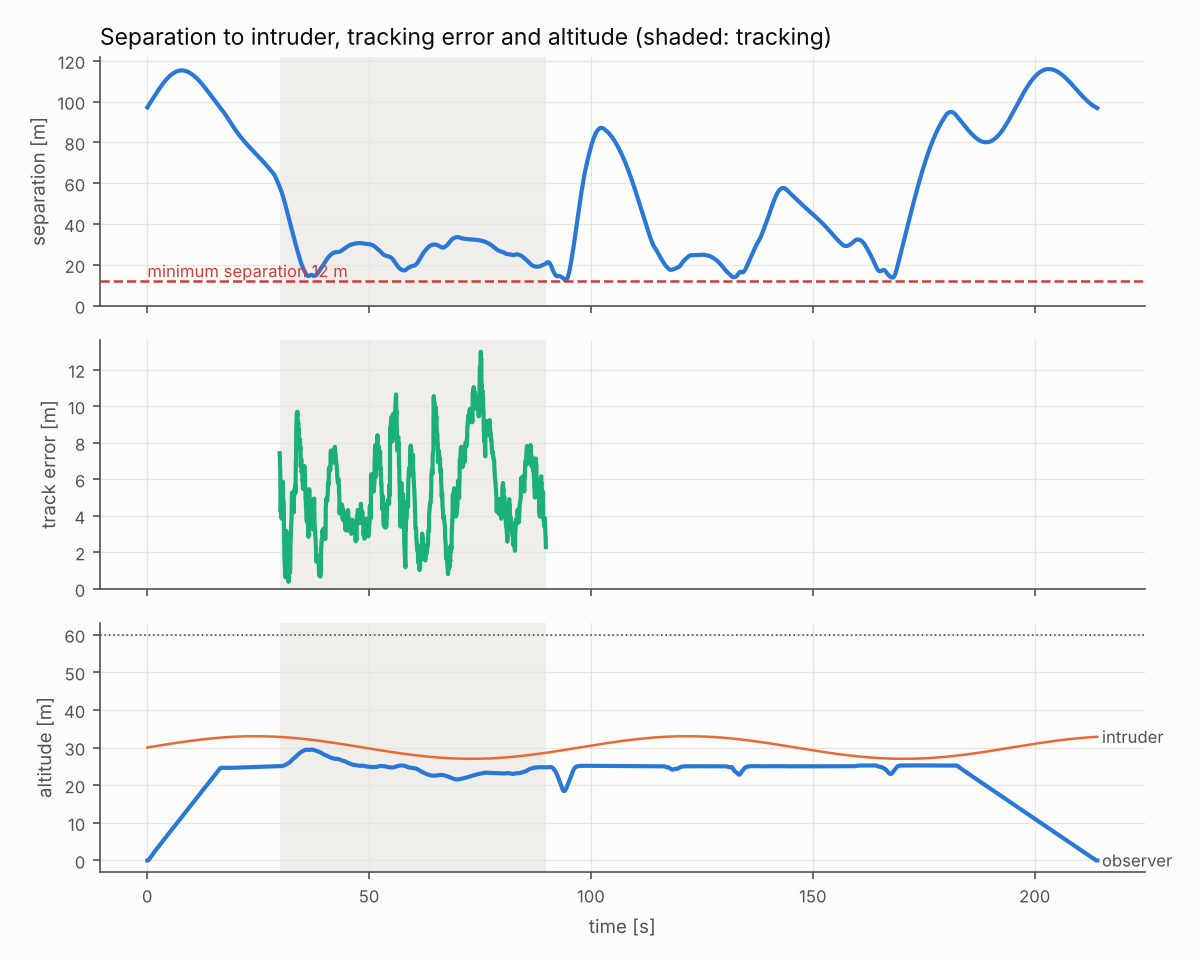
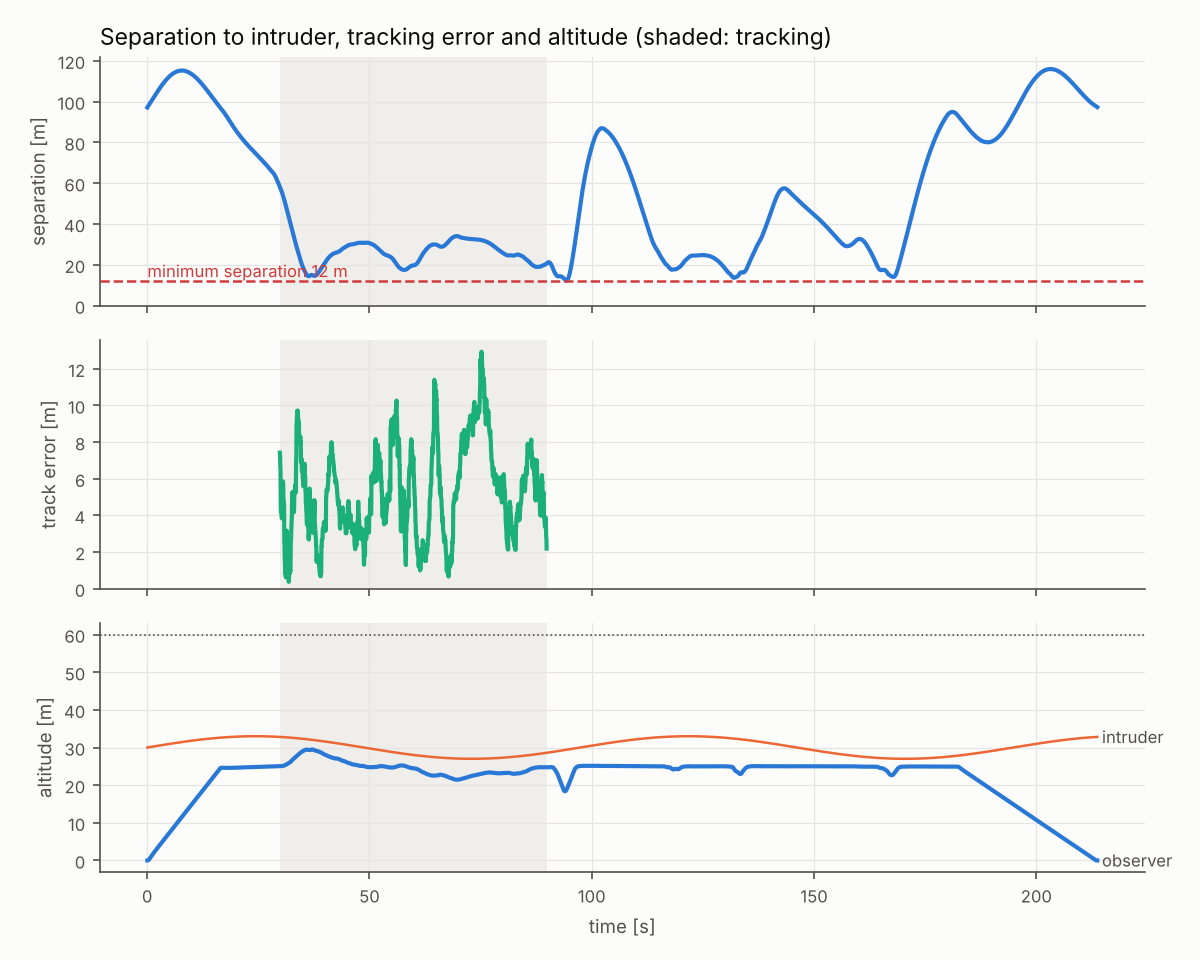
Benchmark, figures and README refreshed on the final renderer

diff --git a/README.md b/README.md
@@ -12,13 +12,17 @@ that no planner, learned or not, can get past.
 
 ![Kestrel detecting, tracking and shadowing an intruder drone](docs/figures/demo.gif)
 
+🎬 **[Project video (2 min)](docs/video/kestrel_demo.mp4)**: the instruction, the checked plan, a rejected unsafe plan,
+the closed-loop flight with a pixel-level view of the intruder, the same code flying ArduCopter SITL, and the measured
+results. Rendered only from the repository's own outputs by [`docs/video/make_video.py`](docs/video/make_video.py).
+
 | | how | measured |
 |---|---|---|
 | **Plan from language** | local LLM (Ollama) constrained to a JSON Schema, re-validated, one repair round, deterministic fallback; stop/abort/land bypass the model | malformed, invented-site and garbage outputs all rejected in tests; same plan with or without a model |
-| **Check before flight** | geofence, altitude band, speed, standoff vs. separation, battery energy | estimate vs. flown energy: 0.92 (median, benchmark) |
+| **Check before flight** | geofence, altitude band, speed, standoff vs. separation, battery energy | flown / estimated energy: 0.92 (median, benchmark) |
 | **See other aircraft** | small-target sky detector on rendered frames: black top-hat, robust threshold, horizon mask, darker-than-sky test | ~80% of frames detected out to 60 m on 2-7 px targets; 0 false alarms in 160 random cloudy-sky frames |
-| **Track them** | bearing + log-range EKF per track, global-nearest-neighbour association, M-of-N confirmation | 4.4 m median / 5.0 m p90 position error at ~30 m range |
-| **Observe safely** | standoff guidance from below (target against sky), parallax orbit, stabilised gimbal, contact watch, escape velocity | intruder in view 100% of shadowing time; median-run closest approach 13.4 m (limit 12 m); see [Results](#results) for the runs that went inside it |
+| **Track them** | bearing + log-range EKF per track, global-nearest-neighbour association, M-of-N confirmation | 4.5 m median / 5.2 m p90 position error at ~30 m range |
+| **Observe safely** | standoff guidance from below (target against sky), parallax orbit, stabilised gimbal, contact watch, escape velocity | intruder in view 100% of shadowing time; median-run closest approach 13.3 m (limit 12 m); see [Results](#results) for the runs that went inside it |
 | **Fly a real autopilot** | ArduPilot GUIDED over MAVLink (pymavlink) | full mission flown on **ArduCopter 4.6.3 SITL in CI** |
 
 > **Status (October 2026, v0.1).** Everything here runs in simulation and on ArduCopter SITL. It has **not flown on
@@ -78,19 +82,20 @@ A Monte Carlo benchmark flies the same mission (survey, shadow any contact for 4
 
 | metric | result |
 |---|---|
-| missions completed and landed (all within 1.5 m of home) | 24/24 |
+| missions completed and landed (all within 0.2 m of home) | 24/24 |
 | runs where a contact was detected and shadowed | 23/24 |
-| runs with any time inside the 12 m minimum separation | 8/24, each for at most 3.9 s |
-| closest approach over all runs (median run) | 8.2 m (13.4 m) |
-| track position error while shadowing, median of runs (p90 of runs) | 4.4 m (5.0 m) |
+| runs with any time inside the 12 m minimum separation | 7/24, each for at most 3.2 s |
+| closest approach over all runs (median run) | 7.8 m (13.3 m) |
+| track position error while shadowing, median of runs (p90 of runs) | 4.5 m (5.2 m) |
 | intruder inside the camera frame while shadowing (median run) | 100% |
 | false tracks per run (median) | 3 |
 | flown energy / pre-flight estimate (median) | 0.92 |
 
-**About the 8 runs that went inside 12 m.** The closest approaches were 8.2, 9.5, 9.5, 10.0, 10.7, 11.1, 11.4 and
-11.8 m, none longer than 3.9 s and none a collision. In seven, the intruder was being tracked; six of those involved
+**About the 7 runs that went inside 12 m.** The closest approaches were 7.8, 9.6, 9.7, 10.0, 10.4, 11.4 and
+11.9 m, none longer than 3.2 s and none a collision. In six, the intruder was being tracked, and all six involved
 intruders at 4.1-5.4 m/s, the fast end of the tested range, where an intruder turning towards the observer closes
-faster than the observer can open the gap. In the eighth, the intruder passed beside the observer outside the camera's view and was never detected.
+faster than the observer can open the gap. In the seventh, the intruder passed beside the observer outside the
+camera's view and was never detected.
 Diagnosing an earlier run of this benchmark (9 runs, worst 5.1 m) produced the escape-velocity and retreat-on-loss
 behaviours ([0004](docs/decisions/0004-separation.md)). The remaining gap is the next thing to work on, not something
 to tune away.
@@ -179,7 +184,8 @@ src/kestrel/
   vehicle/      Vehicle protocol, simulated vehicle, ArduPilot over MAVLink
   runtime.py    closed-loop simulation      live.py   real-time loop for MAVLink
   bench.py      Monte Carlo benchmark       cli.py    kestrel plan | sim | bench | fly
-docs/           architecture, safety case, decision records, published results
+docs/           architecture, safety case, decision records, published results, video and its renderer
+scripts/        record_sitl_flight.py: fly ArduCopter SITL and save the log the video uses
 scenarios/      world definitions (fence, sites, wind, intruders)
 tests/          unit, property, closed-loop and SITL tests
 ```

diff --git a/docs/decisions/0004-separation.md b/docs/decisions/0004-separation.md
@@ -21,8 +21,8 @@ runs with some time inside 12 m (worst 5.1 m). Diagnosing them:
 | constant-velocity filter lagged manoeuvring targets by about 5 m at 10 m range | process noise 2.5 -> 4 m/s^2 |
 | test intruders reversed velocity instantly at waypoints (infinite acceleration) | waypoint intruders now round corners within 3 m/s^2, like real multirotors |
 
-After these fixes the same benchmark gives 8 of 24 runs briefly inside 12 m
-(at most 3.9 s), worst 8.2 m. That residual is published in the README, not tuned
+After these fixes the same benchmark gives 7 of 24 runs briefly inside 12 m
+(at most 3.2 s), worst 7.8 m. That residual is published in the README, not tuned
 away.
 
 **Consequences.** Separation is guaranteed only against aircraft the sensor has

diff --git a/CHANGELOG.md b/CHANGELOG.md
@@ -16,4 +16,5 @@ First release.
 - Quadrotor simulator: rigid-body dynamics, motor lag, wind, cascaded position and
   SE(3) attitude control, stabilised gimbal.
 - ArduPilot over MAVLink (GUIDED), integration-tested on ArduCopter 4.6.3 SITL in CI.
-- Monte Carlo benchmark, report plots and demo animation.
+- Monte Carlo benchmark, report plots, demo animation and a project video rendered from the
+  repository's own outputs (`docs/video/make_video.py`).
